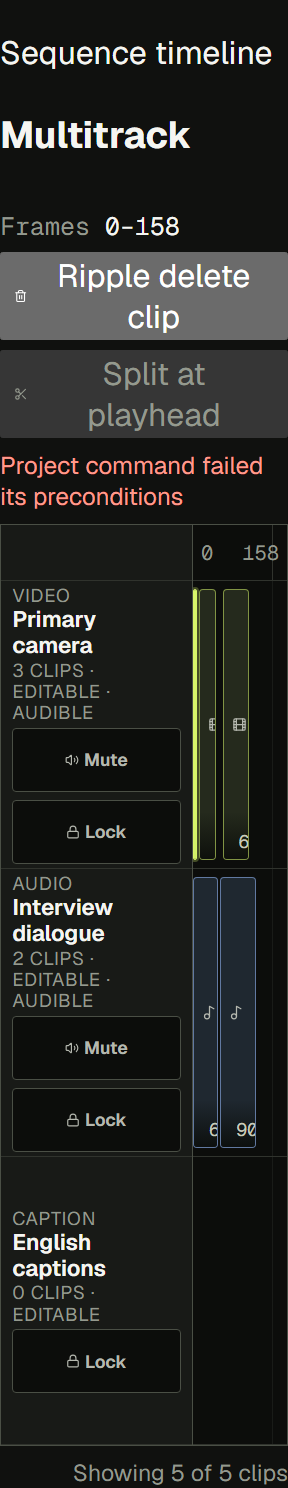
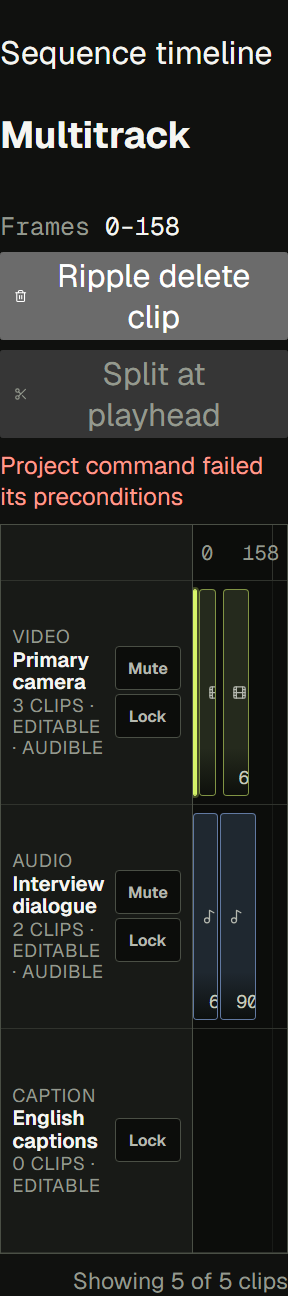
Fix compact track controls at 200% text

diff --git a/apps/desktop/browser-tests/MultitrackTimeline.spec.ts b/apps/desktop/browser-tests/MultitrackTimeline.spec.ts
@@ -82,15 +82,20 @@ for (const viewport of [
     await expect(rows).toHaveCount(3);
     await expectReadableAlignedTrackLabels(labels, rows);
     if (viewport.width === 320) {
+      await expect(rows.first()).toHaveCSS("height", "224px");
       const controls = labels.first().locator(".multitrack-track-controls > button");
-      const [lockBox, muteBox] = await Promise.all([
+      const [muteBox, lockBox] = await Promise.all([
         controls.nth(0).boundingBox(),
         controls.nth(1).boundingBox(),
       ]);
-      expect(lockBox).not.toBeNull();
       expect(muteBox).not.toBeNull();
-      expect(Math.abs(muteBox!.x - lockBox!.x)).toBeLessThanOrEqual(1);
-      expect(muteBox!.y).toBeGreaterThanOrEqual(lockBox!.y + lockBox!.height);
+      expect(lockBox).not.toBeNull();
+      expect(muteBox!.width).toBeGreaterThanOrEqual(44);
+      expect(muteBox!.height).toBeGreaterThanOrEqual(44);
+      expect(lockBox!.width).toBeGreaterThanOrEqual(44);
+      expect(lockBox!.height).toBeGreaterThanOrEqual(44);
+      expect(Math.abs(lockBox!.x - muteBox!.x)).toBeLessThanOrEqual(1);
+      expect(lockBox!.y).toBeGreaterThanOrEqual(muteBox!.y + muteBox!.height);
     }
 
     const actions = page.locator(".multitrack-actions");

diff --git a/apps/desktop/src/App.css b/apps/desktop/src/App.css
@@ -720,6 +720,7 @@ video {
   position: relative;
   z-index: 1;
   min-width: 0;
+  container-type: inline-size;
   border-inline-end: 1px solid var(--border-strong);
   background: var(--surface);
 }
@@ -2094,6 +2095,42 @@ video {
   .dialog-actions,
   .dialog-actions button {
     width: 100%;
+  }
+}
+
+@media (max-width: 320px) {
+  .multitrack-layout {
+    --timeline-track-height: max(128px, 7rem);
+  }
+  @container (min-width: 150px) {
+    .multitrack-visible-label {
+      grid-template-columns: minmax(0, 1fr) 66px;
+      grid-template-areas:
+        "kind controls"
+        "name controls"
+        "status controls";
+      column-gap: 0.25rem;
+    }
+    .multitrack-visible-label strong {
+      font-size: 0.64rem;
+      line-height: 1.1;
+    }
+    .multitrack-track-controls {
+      grid-template-columns: minmax(0, 1fr);
+      gap: 0.125rem;
+      margin-block-start: 0;
+    }
+    .multitrack-lock-toggle,
+    .multitrack-mute-toggle {
+      min-height: 44px;
+      gap: 0;
+      padding-inline: 0.1rem;
+      font-size: 0.5rem;
+    }
+    .multitrack-lock-toggle svg,
+    .multitrack-mute-toggle svg {
+      display: none;
+    }
   }
 }
 
